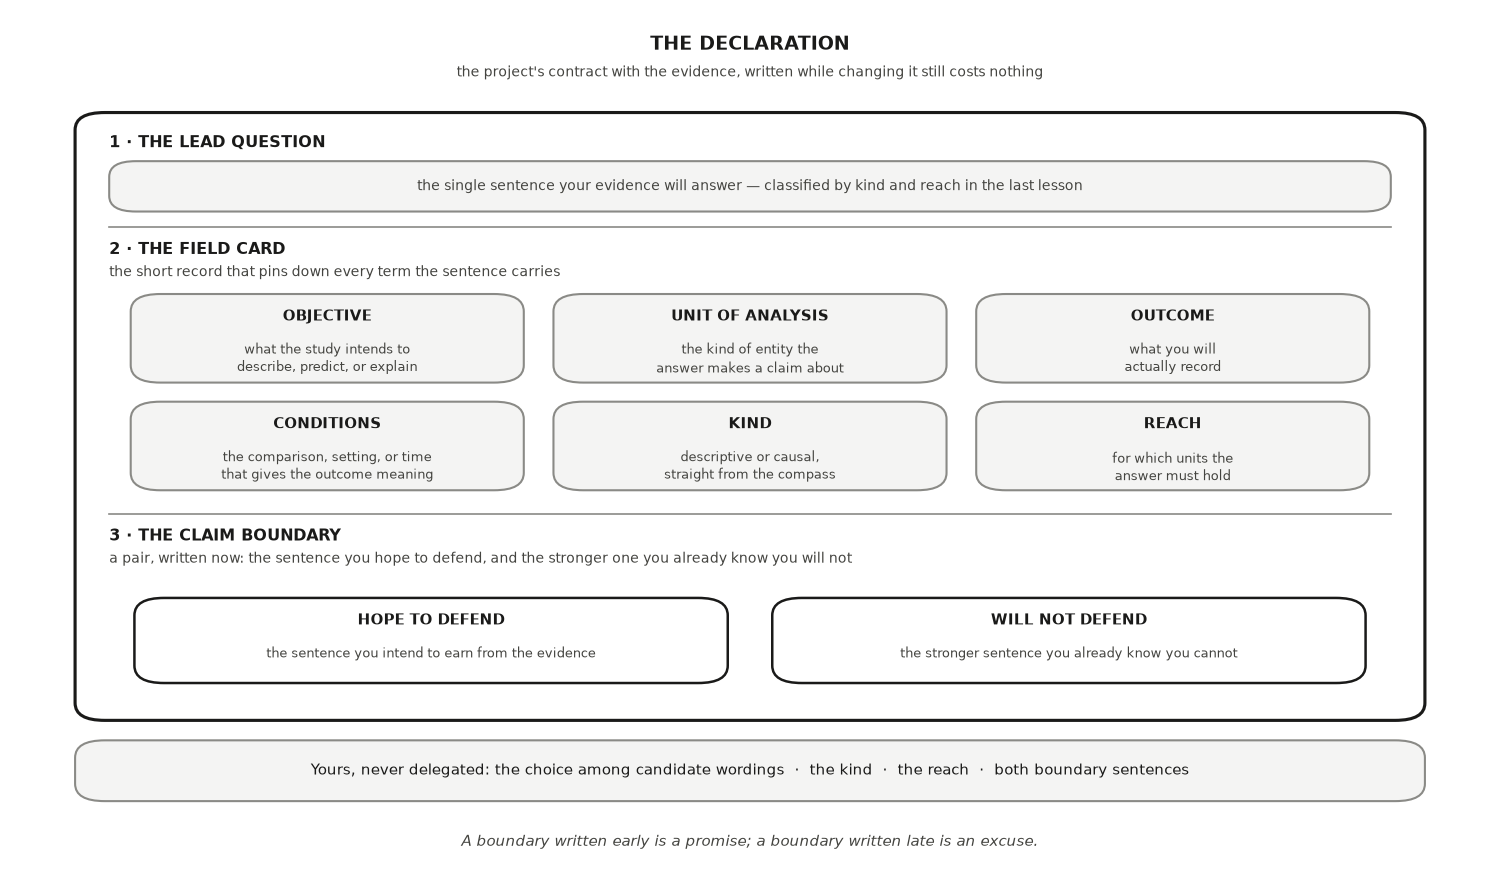
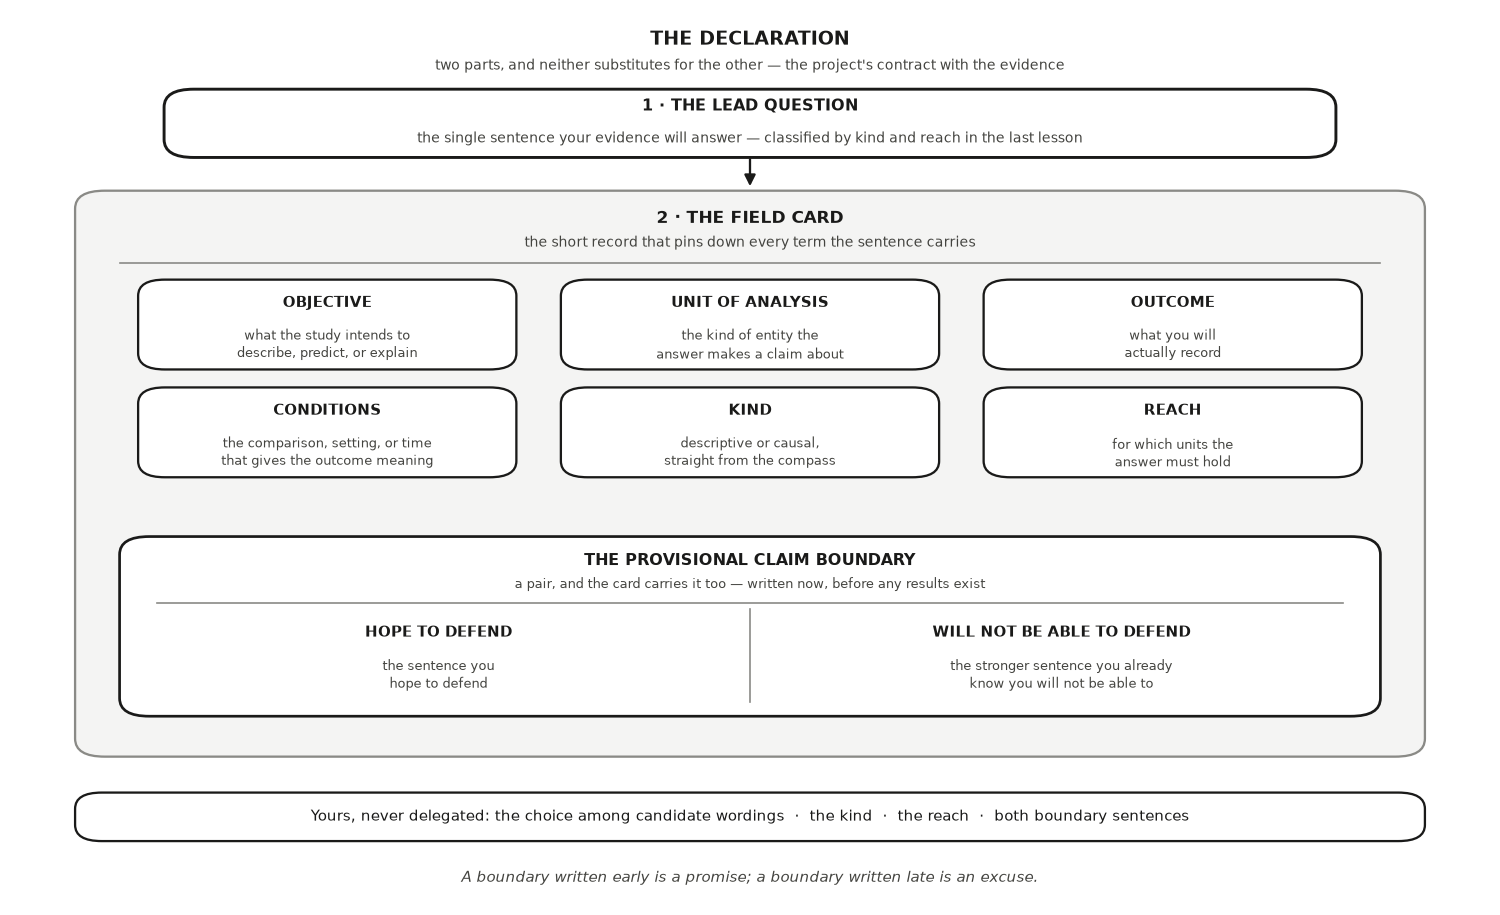
fix: the ch07 figure had three parts; the chapter says two
The declaration figure drew the lead question, the field card and the
claim boundary as three peer parts. That contradicts the chapter twice
over. It states plainly that "the declaration has two parts, and neither
substitutes for the other", and it lists the provisional claim boundary
among the things the FIELD CARD names, alongside the objective, the unit
of analysis, the outcome, the conditions, the kind and the reach.

So the boundary is now drawn nested INSIDE the field card rather than
standing beside it, and the card is part 2 of two rather than one of
three. It keeps its own sub-card and stays a pair, since that is the
half of the rule most easily lost: both sentences are written before any
results exist. The boundary labels now use the chapter's own wording --
"hope to defend" against "will not be able to defend".

The figure also moves one paragraph later in the chapter, so that it
follows the boundary-timing rule rather than preceding it; its footer
quotes that rule, and the echo only works in that order.

Found by the Codex partner run on this same task, which reached the
nested structure independently and argued it explicitly: "Do not present
the boundary as part 3; that would conflict with the chapter's own
two-part anatomy." Its placement recommendation is adopted here too.
Kept from this side: the "never delegated" band, the chapter's verbatim
promise/excuse footer, and the concrete "descriptive or causal" gloss on
[…]

Changed region(s): [[0.0307, 0.0305, 0.9507, 0.9763]]

diff --git a/docs/book/part2-curiosity-to-design/declare-your-question.html b/docs/book/part2-curiosity-to-design/declare-your-question.html
@@ -762,13 +762,13 @@ div.csl-indent {
 <h2 data-number="7.2" class="anchored" data-anchor-id="the-concept"><span class="header-section-number">7.2</span> The concept</h2>
 <p>The declaration has two parts, and neither substitutes for the other.</p>
 <p>The first is the <strong>lead question</strong>: the single sentence, classified by kind and reach in the last lesson, that your evidence will answer. The second is the <strong>field card</strong>: the short record that pins down every term the sentence carries <span class="citation" data-cites="booth2024craft">(<a href="#ref-booth2024craft" role="doc-biblioref">Booth et al. 2024</a>)</span>. A field card names the <strong>objective</strong> (what the study intends to describe, predict, or explain), the <strong>unit of analysis</strong> (the kind of entity the answer makes a claim about), the <strong>outcome</strong> (what you will actually record), the <strong>conditions</strong> (the comparison, setting, or time that gives the outcome meaning), the question’s <strong>kind</strong> and <strong>reach</strong> (from the compass), and the <strong>provisional claim boundary</strong>: the sentence you hope to defend, and the stronger sentence you already know you will not be able to.</p>
+<p>Do not force every field into one overloaded sentence. A readable question plus a complete card beats a sixty-word question every time. And write the boundary now, not after the results: a boundary written early is a promise; a boundary written late is an excuse.</p>
 <div class="quarto-figure quarto-figure-center">
 <figure class="figure">
-<p><img src="../images/concepts/declaration_anatomy.png" class="img-fluid figure-img" alt="A card with three numbered parts. Part one, the lead question, is a single wide slot reading: the single sentence your evidence will answer, classified by kind and reach in the last lesson. Part two, the field card, is described as the short record that pins down every term the sentence carries, and holds six boxes in two rows of three. Objective, what the study intends to describe, predict, or explain. Unit of analysis, the kind of entity the answer makes a claim about. Outcome, what you will actually record. Conditions, the comparison, setting, or time that gives the outcome meaning. Kind, descriptive or causal, straight from the compass. Reach, for which units the answer must hold. Part three, the claim boundary, is described as a pair written now, and holds two boxes side by side: hope to defend, the sentence you intend to earn from the evidence; and will not defend, the stronger sentence you already know you cannot. A band below the card reads: yours, never delegated, the choice among candidate wordings, the kind, the reach, both boundary sentences. The footer reads: a boundary written early is a promise, a boundary written late is an excuse."></p>
-<figcaption>The declaration, drawn as the record it is. The lead question is one part and the field card that pins every term it carries is the other; the claim boundary is a pair, written now rather than after the results. The band beneath is the line no tool crosses.</figcaption>
+<p><img src="../images/concepts/declaration_anatomy.png" class="img-fluid figure-img" alt="A diagram in two parts. Part one is a box, the lead question: the single sentence your evidence will answer, classified by kind and reach in the last lesson. An arrow points down from it into part two, the field card, described as the short record that pins down every term the sentence carries. The field card contains six boxes in two rows of three. Objective, what the study intends to describe, predict, or explain. Unit of analysis, the kind of entity the answer makes a claim about. Outcome, what you will actually record. Conditions, the comparison, setting, or time that gives the outcome meaning. Kind, descriptive or causal, straight from the compass. Reach, for which units the answer must hold. Nested inside the field card below them is a further box, the provisional claim boundary, described as a pair the card carries too, written now, before any results exist. It is split down the middle: hope to defend, the sentence you hope to defend; and will not be able to defend, the stronger sentence you already know you will not be able to. A band below the whole diagram reads: yours, never delegated, the choice among candidate wordings, the kind, the reach, both boundary sentences. The footer reads: a boundary written early is a promise, a boundary written late is an excuse."></p>
+<figcaption>The declaration, drawn as the record it is. Two parts: the lead question, and the field card that pins every term it carries. The provisional claim boundary sits inside the card, because the card names it too, and it is a pair. The band beneath is the line no tool crosses.</figcaption>
 </figure>
 </div>
-<p>Do not force every field into one overloaded sentence. A readable question plus a complete card beats a sixty-word question every time. And write the boundary now, not after the results: a boundary written early is a promise; a boundary written late is an excuse.</p>
 <p>Declaring is also a delegation exercise, and that is the point of doing it in this studio. <strong>Candidate wording</strong> is the one part of the declaration that delegates well: an AI tool can produce five phrasings of your question in seconds, and some will be sharper than yours. What never delegates is the choice among them, the kind, the reach, and the boundary, because those decide what the project promises. The discipline that makes the delegation safe is <strong>show-what-changed</strong>: for every candidate wording, the tool states exactly which words differ from yours and what each change does to the question’s meaning. A wording whose changes you cannot account for is not a sharper question. It is a different one.</p>
 </section>
 <section id="a-worked-example" class="level2" data-number="7.3">

diff --git a/docs/lecture_slides/studio02.html b/docs/lecture_slides/studio02.html
@@ -2876,20 +2876,20 @@ Davi Moreira
 </div>
 <div class="slide-body">
 <ul>
-<li>Three parts: the sentence, the card that pins its terms, and the boundary pair.</li>
-<li>Kind and reach come straight from the compass; the boundary is written now, not after the results.</li>
+<li>Two parts: the sentence, and the card that pins every term it carries.</li>
+<li>The card names the boundary too — a pair, written now rather than after the results.</li>
 </ul>
 <div class="quarto-figure quarto-figure-center">
 <figure>
-<p><img data-src="figs/declaration_anatomy.png" class="quarto-figure quarto-figure-center" style="width:80.0%" alt="The declaration, drawn as the record it is. The lead question is one part and the field card that pins every term it carries is the other; the claim b"></p>
+<p><img data-src="figs/declaration_anatomy.png" class="quarto-figure quarto-figure-center" style="width:80.0%" alt="The declaration, drawn as the record it is. Two parts: the lead question, and the field card that pins every term it carries. The provisional claim bo"></p>
 </figure>
 </div>
 <div class="figure-caption">
-<p>The declaration, drawn as the record it is. The lead question is one part and the field card that pins every term it carries is the other; the claim boundary is a pair, written now rather than after the results. The band beneath is the line no tool crosses.</p>
+<p>The declaration, drawn as the record it is. Two parts: the lead question, and the field card that pins every term it carries. The provisional claim boundary sits inside the card, because the card names it too, and it is a pair. The band beneath is the line no tool crosses.</p>
 </div>
 </div>
 <aside class="notes">
-<p>Show the card and let the room see that a declaration is a document to fill in, not a sentence to polish. Two things repay pointing at. The boundary is a pair, and both halves are written before any results exist, which is what makes the second half a promise rather than an excuse. And the band underneath is the delegation line for this whole lesson: candidate wording is the part that delegates well, while the choice among the wordings, the kind, the reach and both boundary sentences stay with the researcher.</p>
+<p>Show the card and let the room see that a declaration is a document to fill in, not a sentence to polish. Two things repay pointing at. The boundary sits inside the field card rather than beside it, because the card is what names it, and it is a pair: both halves are written before any results exist, which is what makes the second half a promise rather than an excuse. And the band underneath is the delegation line for this whole lesson: candidate wording is the part that delegates well, while the choice among the wordings, the kind, the reach and both boundary sentences stay with the researcher.</p>
 <style type="text/css">
         span.MJX_Assistive_MathML {
           position:absolute!important;

diff --git a/scripts/build_book_concept_figures.py b/scripts/build_book_concept_figures.py
@@ -101,15 +101,15 @@ L = {
         },
         "declaration": {
             "title": "THE DECLARATION",
-            "title_sub": "the project's contract with the evidence, written while changing it still costs nothing",
+            "title_sub": "two parts, and neither substitutes for the other — the project's contract with the evidence",
             "parts": [
                 ("1 · THE LEAD QUESTION",
                  "the single sentence your evidence will answer — classified by kind and reach in the last lesson"),
                 ("2 · THE FIELD CARD",
                  "the short record that pins down every term the sentence carries"),
-                ("3 · THE CLAIM BOUNDARY",
-                 "a pair, written now: the sentence you hope to defend, and the stronger one you already know you will not"),
             ],
+            "boundary_head": "THE PROVISIONAL CLAIM BOUNDARY",
+            "boundary_sub": "a pair, and the card carries it too — written now, before any results exist",
             "fields": [
                 ("OBJECTIVE", "what the study intends to\ndescribe, predict, or explain"),
                 ("UNIT OF ANALYSIS", "the kind of entity the\nanswer makes a claim about"),
@@ -119,8 +119,8 @@ L = {
                 ("REACH", "for which units the\nanswer must hold"),
             ],
             "boundary": [
-                ("HOPE TO DEFEND", "the sentence you intend to earn from the evidence"),
-                ("WILL NOT DEFEND", "the stronger sentence you already know you cannot"),
+                ("HOPE TO DEFEND", "the sentence you\nhope to defend"),
+                ("WILL NOT BE ABLE TO DEFEND", "the stronger sentence you already\nknow you will not be able to"),
             ],
             "band": "Yours, never delegated: the choice among candidate wordings  ·  the kind  ·  the reach  ·  both boundary sentences",
             "foot": "A boundary written early is a promise; a boundary written late is an excuse.",
@@ -196,15 +196,15 @@ L = {
         },
         "declaration": {
             "title": "A DECLARAÇÃO",
-            "title_sub": "o contrato do projeto com a evidência, escrito enquanto mudá-lo ainda não custa nada",
+            "title_sub": "duas partes, e nenhuma substitui a outra — o contrato do projeto com a evidência",
             "parts": [
                 ("1 · A PERGUNTA PRINCIPAL",
                  "a única frase que sua evidência vai responder — classificada por tipo e alcance na lição anterior"),
                 ("2 · A FICHA DE CAMPO",
                  "o registro curto que fixa cada termo que a frase carrega"),
-                ("3 · A FRONTEIRA DA ALEGAÇÃO",
-                 "um par, escrito agora: a frase que você espera defender e a mais forte que já sabe que não poderá"),
             ],
+            "boundary_head": "A FRONTEIRA PROVISÓRIA DA ALEGAÇÃO",
+            "boundary_sub": "um par, e a ficha também o carrega — escrito agora, antes de qualquer resultado",
             "fields": [
                 ("OBJETIVO", "o que o estudo pretende\ndescrever, prever ou explicar"),
                 ("UNIDADE DE ANÁLISE", "o tipo de entidade sobre a qual\na resposta faz uma alegação"),
@@ -214,8 +214,8 @@ L = {
                 ("ALCANCE", "para quais unidades a\nresposta precisa valer"),
             ],
             "boundary": [
-                ("ESPERA DEFENDER", "a frase que você pretende conquistar com a evidência"),
-                ("NÃO VAI DEFENDER", "a frase mais forte que você já sabe que não pode"),
+                ("ESPERA DEFENDER", "a frase que você\nespera defender"),
+                ("NÃO VAI CONSEGUIR DEFENDER", "a frase mais forte que você já\nsabe que não vai conseguir"),
             ],
             "band": "Seu, nunca delegado: a escolha entre as redações candidatas  ·  o tipo  ·  o alcance  ·  as duas frases da fronteira",
             "foot": "Uma fronteira escrita cedo é uma promessa; uma fronteira escrita tarde é uma desculpa.",
@@ -291,15 +291,15 @@ L = {
         },
         "declaration": {
             "title": "LA DECLARACIÓN",
-            "title_sub": "el contrato del proyecto con la evidencia, escrito mientras cambiarlo todavía no cuesta nada",
+            "title_sub": "dos partes, y ninguna sustituye a la otra — el contrato del proyecto con la evidencia",
             "parts": [
                 ("1 · LA PREGUNTA PRINCIPAL",
                  "la única frase que tu evidencia va a responder — clasificada por tipo y alcance en la lección anterior"),
                 ("2 · LA FICHA DE CAMPO",
                  "el registro breve que fija cada término que la frase lleva"),
-                ("3 · LA FRONTERA DE LA AFIRMACIÓN",
-                 "un par, escrito ahora: la frase que esperas defender y la más fuerte que ya sabes que no podrás"),
             ],
+            "boundary_head": "LA FRONTERA PROVISIONAL DE LA AFIRMACIÓN",
+            "boundary_sub": "un par, y la ficha también lo lleva — escrito ahora, antes de cualquier resultado",
             "fields": [
                 ("OBJETIVO", "qué pretende el estudio\ndescribir, predecir o explicar"),
                 ("UNIDAD DE ANÁLISIS", "el tipo de entidad sobre la que\nla respuesta afirma algo"),
@@ -309,8 +309,8 @@ L = {
                 ("ALCANCE", "para qué unidades debe\nvaler la respuesta"),
             ],
             "boundary": [
-                ("ESPERA DEFENDER", "la frase que pretendes ganarte con la evidencia"),
-                ("NO VA A DEFENDER", "la frase más fuerte que ya sabes que no puedes"),
+                ("ESPERA DEFENDER", "la frase que\nesperas defender"),
+                ("NO VA A PODER DEFENDER", "la frase más fuerte que ya\nsabes que no vas a poder"),
             ],
             "band": "Tuyo, nunca delegado: la elección entre las redacciones candidatas  ·  el tipo  ·  el alcance  ·  las dos frases de la frontera",
             "foot": "Una frontera escrita temprano es una promesa; una frontera escrita tarde es una excusa.",
@@ -589,73 +589,71 @@ def build_compass(S: dict, out: Path) -> None:
 
 
 def build_declaration(S: dict, out: Path) -> None:
-    """The declaration's anatomy: the lead question, the field card that pins
-    every term it carries, and the claim boundary as a PAIR.
+    """The declaration's anatomy: TWO parts, and the boundary lives inside
+    the second one.
 
-    Drawn as the record it is — one card, three numbered parts, ruled — so the
-    reader sees that a declaration is a document to fill in, not a sentence to
-    polish. The band beneath is the human line: what none of it delegates.
+    The chapter is explicit that a declaration has two parts and that the
+    field card is what "names" the objective, the unit, the outcome, the
+    conditions, the kind, the reach AND the provisional claim boundary. So
+    the boundary is drawn nested inside the card, not standing beside it,
+    and it is drawn as a PAIR. The band beneath is the human line: what
+    none of this delegates.
     """
-    fig, ax = plt.subplots(figsize=(10.0, 5.9))
+    fig, ax = plt.subplots(figsize=(10.0, 6.1))
     ax.set_xlim(0, 1); ax.set_ylim(0, 1); ax.axis("off")
 
-    card_l, card_r = .045, .955
-    inset_l, inset_r = .068, .932
-
-    ax.text(.5, .958, S["title"], ha="center", va="center",
+    ax.text(.5, .965, S["title"], ha="center", va="center",
             fontsize=9.0, fontweight="bold", color=INK)
-    ax.text(.5, .926, S["title_sub"], ha="center", va="center",
+    ax.text(.5, .936, S["title_sub"], ha="center", va="center",
             fontsize=6.8, color=MUTE)
 
-    # the card itself
-    box(ax, (card_l + card_r) / 2, .530, card_r - card_l, .700,
-        "white", INK, lw=1.5, r=.020)
+    # 1 — the sentence itself
+    q_head, q_sub = S["parts"][0]
+    box(ax, .5, .872, .790, .076, "white", INK, lw=1.4, r=.020)
+    ax.text(.5, .891, q_head, ha="center", va="center",
+            fontsize=7.8, fontweight="bold", color=INK)
+    ax.text(.5, .855, q_sub, ha="center", va="center",
+            fontsize=6.6, color=MUTE)
+    arrow(ax, .5, .832, .5, .802)
 
-    def part(y, idx, gloss=True):
-        head, sub = S["parts"][idx]
-        ax.text(inset_l, y, head, ha="left", va="center",
-                fontsize=7.8, fontweight="bold", color=INK)
-        if gloss:
-            ax.text(inset_l, y - .026, sub, ha="left", va="center",
-                    fontsize=6.6, color=MUTE)
+    # 2 — the card that pins every term the sentence carries
+    c_head, c_sub = S["parts"][1]
+    box(ax, .5, .482, .910, .630, FILL, SOFT, lw=1.1, r=.020)
+    ax.text(.5, .766, c_head, ha="center", va="center",
+            fontsize=8.0, fontweight="bold", color=INK)
+    ax.text(.5, .739, c_sub, ha="center", va="center",
+            fontsize=6.6, color=MUTE)
+    ax.plot([.075, .925], [.717, .717], color=SOFT, lw=.8, zorder=3)
 
-    def rule(y):
-        ax.plot([inset_l, inset_r], [y, y], color=SOFT, lw=.8, zorder=3)
-
-    # 1 — the sentence itself, given a slot of its own
-    part(.845, 0, gloss=False)
-    box(ax, .5, .795, inset_r - inset_l, .058, FILL, SOFT, lw=1.0, r=.018)
-    ax.text(.5, .795, S["parts"][0][1], ha="center", va="center",
-            fontsize=6.8, color=MUTE)
-    rule(.748)
-
-    # 2 — the six fields that pin its terms
-    part(.722, 1)
-    fxs, fw = (.215, .500, .785), .265
+    fxs, fw = (.215, .500, .785), .255
     for i, (head, sub) in enumerate(S["fields"]):
-        cx, cy = fxs[i % 3], (.620 if i < 3 else .496)
-        box(ax, cx, cy, fw, .102, FILL, SOFT, lw=1.0, r=.020)
-        ax.text(cx, cy + .025, head, ha="center", va="center",
+        cx, cy = fxs[i % 3], (.648 if i < 3 else .528)
+        box(ax, cx, cy, fw, .100, "white", INK, lw=1.1, r=.018)
+        ax.text(cx, cy + .024, head, ha="center", va="center",
                 fontsize=7.2, fontweight="bold", color=INK)
-        ax.text(cx, cy - .023, sub, ha="center", va="center",
+        ax.text(cx, cy - .022, sub, ha="center", va="center",
                 fontsize=6.2, color=MUTE, linespacing=1.35)
-    rule(.418)
 
-    # 3 — the boundary, and it is a pair
-    part(.392, 2)
-    for cx, (head, sub) in zip((.285, .715), S["boundary"]):
-        box(ax, cx, .272, .400, .098, "white", INK, lw=1.2, r=.020)
-        ax.text(cx, .295, head, ha="center", va="center",
+    # the boundary — inside the card, and a pair
+    box(ax, .5, .312, .850, .200, "white", INK, lw=1.3, r=.020)
+    ax.text(.5, .385, S["boundary_head"], ha="center", va="center",
+            fontsize=7.8, fontweight="bold", color=INK)
+    ax.text(.5, .359, S["boundary_sub"], ha="center", va="center",
+            fontsize=6.4, color=MUTE)
+    ax.plot([.100, .900], [.338, .338], color=SOFT, lw=.8, zorder=3)
+    ax.plot([.5, .5], [.228, .331], color=SOFT, lw=.8, zorder=3)
+    for cx, (head, sub) in zip((.290, .710), S["boundary"]):
+        ax.text(cx, .305, head, ha="center", va="center",
                 fontsize=7.2, fontweight="bold", color=INK)
-        ax.text(cx, .257, sub, ha="center", va="center",
-                fontsize=6.3, color=MUTE)
+        ax.text(cx, .258, sub, ha="center", va="center",
+                fontsize=6.3, color=MUTE, linespacing=1.35)
 
     # the human line
-    box(ax, .5, .122, card_r - card_l, .070, FILL, SOFT, lw=1.0, r=.020)
-    ax.text(.5, .122, S["band"], ha="center", va="center",
+    box(ax, .5, .100, .910, .054, "white", INK, lw=1.1, r=.018)
+    ax.text(.5, .100, S["band"], ha="center", va="center",
             fontsize=7.0, color=INK)
 
-    ax.text(.5, .040, S["foot"], ha="center", va="center", fontsize=7.2,
+    ax.text(.5, .032, S["foot"], ha="center", va="center", fontsize=7.2,
             color=MUTE, style="italic")
 
     fig.tight_layout(pad=0.4)
